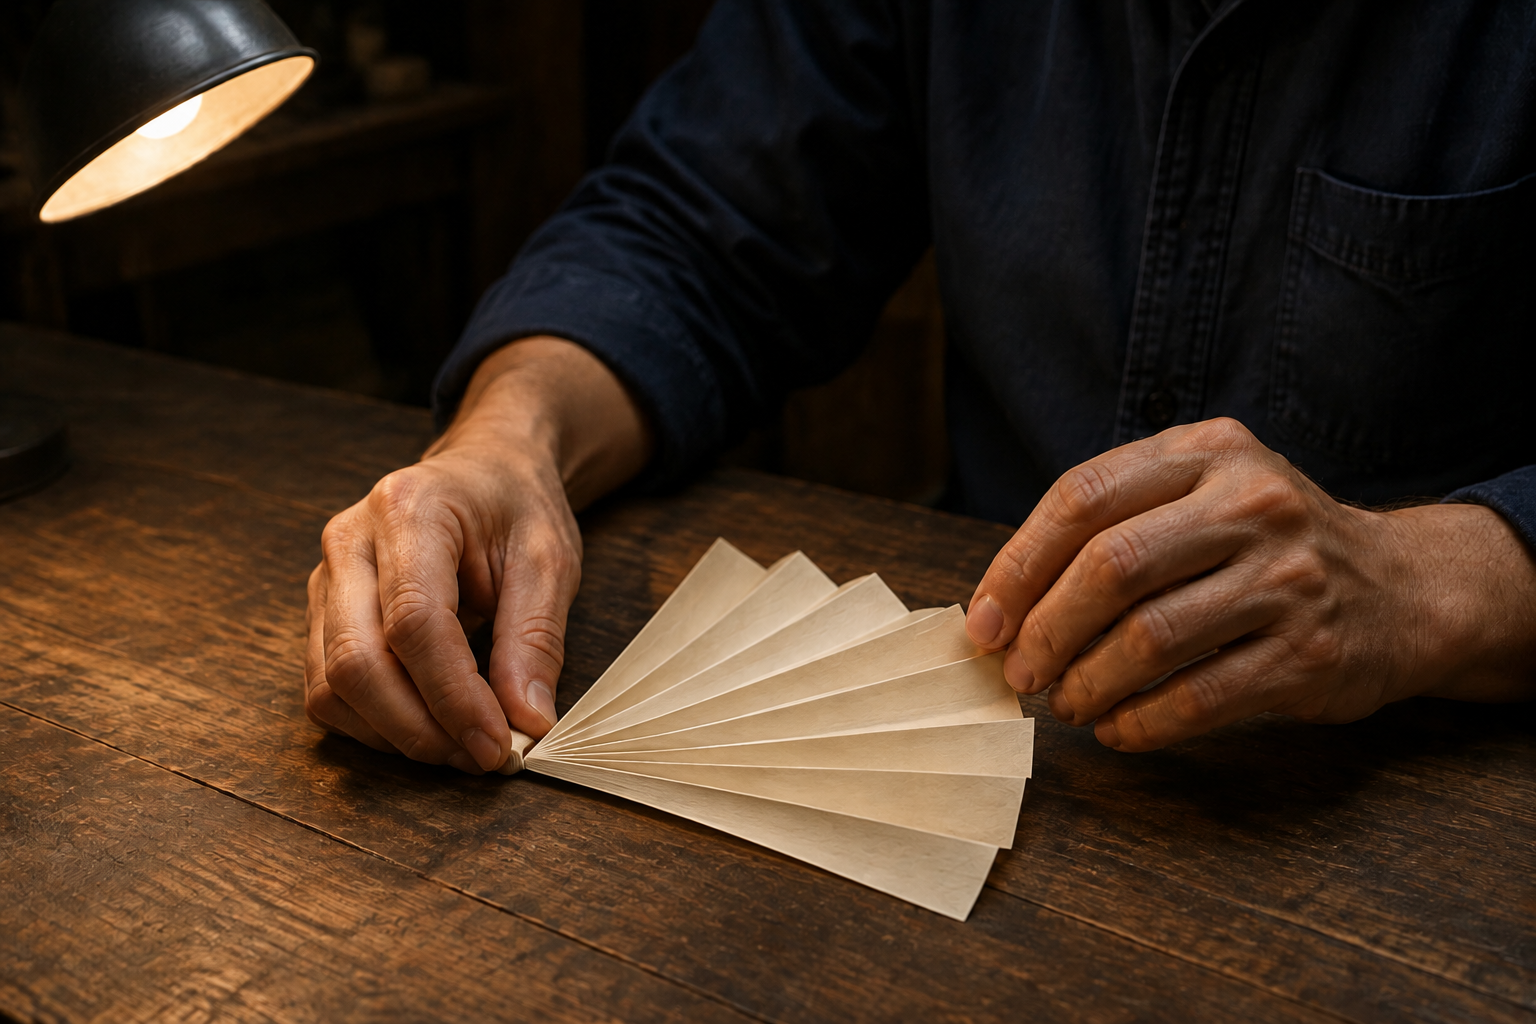
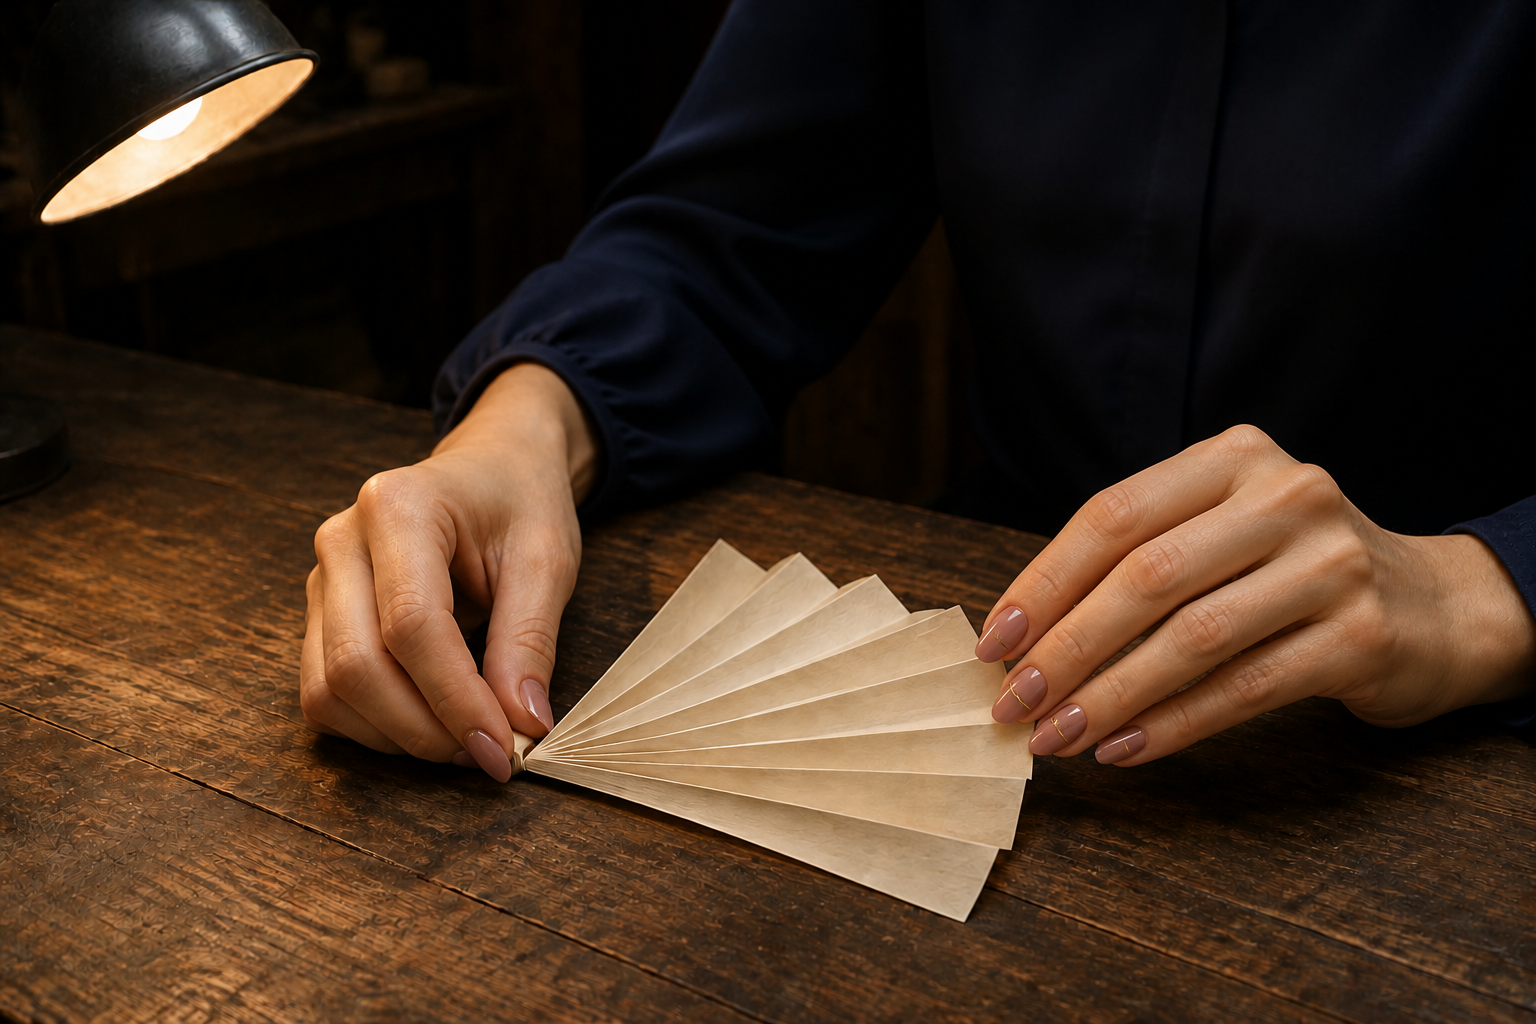
docs(art): use feminine hands with rose-and-gold nail art

diff --git a/docs/PAPER_FAN_ART.md b/docs/PAPER_FAN_ART.md
@@ -13,12 +13,12 @@ All essential instructions remain in Markdown if the image is unavailable.
 
 ## Provenance
 
-- Created 2026-09-07 with the built-in image-generation tool, followed by one
-  targeted edit with that tool. No Seedance/Dreamina generation was run.
+- Created 2026-09-07 with the built-in image-generation tool, followed by two
+  targeted edits with that tool. No Seedance/Dreamina generation was run.
 - Final file: `assets/paper-fan-teaching.png`, 1536 × 1024 pixels, PNG,
-  2,067,040 bytes. SHA-256 is recorded in `data/paper-fan-art.json`.
+  2,029,237 bytes. SHA-256 is recorded in `data/paper-fan-art.json`.
 - No private reference asset, real person's likeness or third-party product was
-  supplied. The edit used the first generated illustration as its reference.
+  supplied. Each edit used the preceding generated illustration as its reference.
 - The final generated PNG is copied without crop, recoloring or re-encoding.
   The original tool output remains preserved outside the repository.
 - Visual inspection found book-like stacked edges in the initial image. The
@@ -38,6 +38,18 @@ Use case: illustration-story. Create one landscape 3:2 editorial teaching illust
 
 ```text
 Edit only the ivory paper object. It currently resembles a thick stack of book pages with a bound spine. Replace it with a believable lightweight accordion paper fan made from ONE continuous thin sheet of ivory paper, with about eight clear mountain and valley folds radiating from the held narrow end. Remove all stacked-page edges, all binding or spine structure, and the block-like thickness at the lower edge. Each pleat has one thin paper edge, not a stack. Preserve the exact hands, their contact positions, forearms, navy shirt, lamp, worn wooden table, composition, camera, palette and lighting. Keep all text and UI absent. Fictional AI teaching concept; no certification or motion claims.
+```
+
+## Maintainer-requested hand and manicure revision
+
+The maintainer rejected the original hands and requested feminine hands with
+polished nails. The second edit replaces the hands and cuffs with an adult
+woman's hands, dusty-rose almond nails, fine gold accents and navy blouse cuffs.
+Future commissioned hand-focused imagery for this repository should follow that
+preference. This is the maintainer's visual brief, not a rule for users' prompts.
+
+```text
+Use case: precise-object-edit. Edit target: the supplied paper-fan README illustration. Replace the existing hands and forearms with those of an adult woman: elegant slender feminine hands, softly tapered fingers, natural skin texture, well-groomed cuticles, and a beautiful professional manicure. Give every visible nail a consistent medium-length soft almond shape with glossy dusty-rose polish and delicate fine champagne-gold accent lines; tasteful refined nail art clearly readable on the nearer hand. Natural anatomically coherent hands, five fingers per hand, plausible joints and contact with the fan, no duplicated or fused fingers. Replace the heavy work-shirt cuffs with simple dark navy silk blouse cuffs, retaining their position and understated appearance. Keep the exact thin ivory accordion fan, its folds and position, worn walnut table, lamp in upper left, warm side lighting, dark background, oblique camera angle, framing and 3:2 landscape composition. Keep the hands in the same functional gesture around the fan so the scene still communicates careful making. No face or extra person, no rings or extra props, no text, logos, watermark, UI, labels or panels. This is fictional AI-generated teaching concept art, not a Seedance render or a verified craft tutorial.
 ```
 
 ## Acceptance boundaries

diff --git a/README.md b/README.md
@@ -45,7 +45,7 @@ without submitting a paid generation request.
 <!-- teaching-image:placement -->
 <!-- installed-readme-gallery:start -->
 
-![Two hands hold a thin ivory paper fan on a wooden workbench under a desk lamp.](assets/paper-fan-teaching.png)
+![An adult woman's hands with rose-and-gold nail art hold an ivory paper fan under a desk lamp.](assets/paper-fan-teaching.png)
 
 *AI-generated teaching concept, not Seedance output.* The still illustrates
 material, framing and light; it does not prove the action or sound will render.
